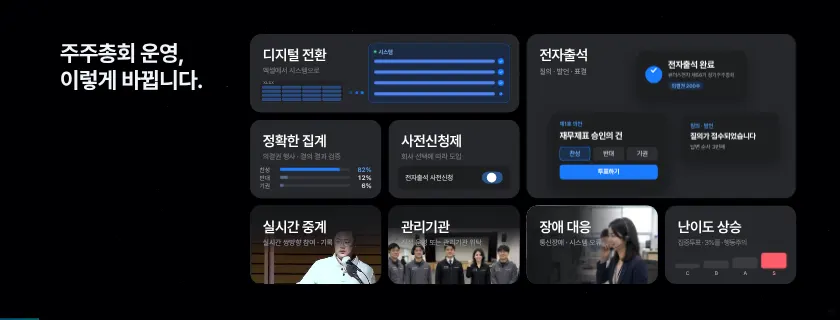
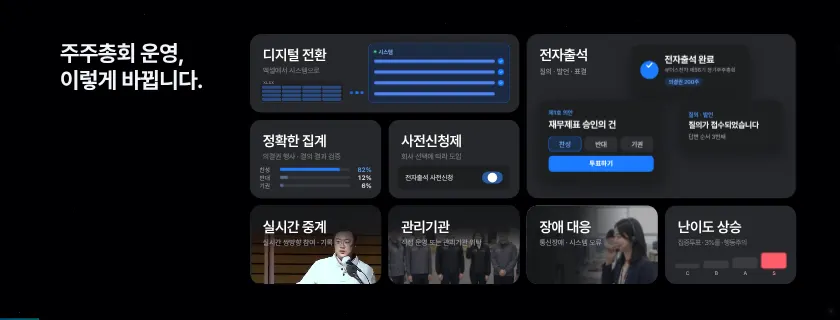
session4 K02: 실시간 중계 영상 위쪽 마스킹 구간 축소, 관리기관 사진 위로 · 투명도 62%, 장애 대응 사진 오른쪽으로 조금 · 같은 투명도, 전자출석 카드 3장 배치 그대로 패딩 안에서 1.07배
Claude-Session: https://claude.ai/code/session_01Mn7Nn16wk2DQC1WBM1amqJ

diff --git a/session4.html b/session4.html
@@ -1776,6 +1776,14 @@ body:not(.idle) #sgb{opacity:.9}body.grid #sgb{opacity:0;pointer-events:none}
 #K28e .g7{gap:22px}#K28e .g7>div{padding:36px 40px}
 #K28e .g7 b{font-size:48px}#K28e .g7 p{font-size:37px}
 #K09b .gl li{padding:7px 0 7px 58px}#K09b .gl li::before{top:10px}#K09b .gchips span{padding:13px 6px}#K09b .gbx{padding:32px 40px}
+/* 11/26 20:30 K02: 중계 영상 위쪽 마스킹 구간 축소, 관리기관 사진 위로 + 투명도, 장애 대응 사진 오른쪽으로 조금 + 같은 투명도, 전자출석 카드 3장 배치 그대로 패딩(64px) 안에서 1.07배 */
+#K02 .bw.d .bc.im video{-webkit-mask-image:linear-gradient(180deg,transparent 0,rgba(0,0,0,.35) 8%,#000 20%)!important;mask-image:linear-gradient(180deg,transparent 0,rgba(0,0,0,.35) 8%,#000 20%)!important}
+#K02 .bw.f .bc.im i{background-position:42% 30px!important;opacity:.62}
+#K02 .bw.g .bc.im i{background-size:108% auto!important;background-position:0% 12%!important;opacity:.62}
+#K02 .bc.ph .uc{scale:1.07;transform-origin:0 0}
+#K02 .bc.ph .u1{left:523px!important;top:64px!important}
+#K02 .bc.ph .u2{left:64px!important;top:338px!important}
+#K02 .bc.ph .u3{left:764px!important;top:338px!important}
 </style></head>
 <body>
 <div class="stage" id="stage">
